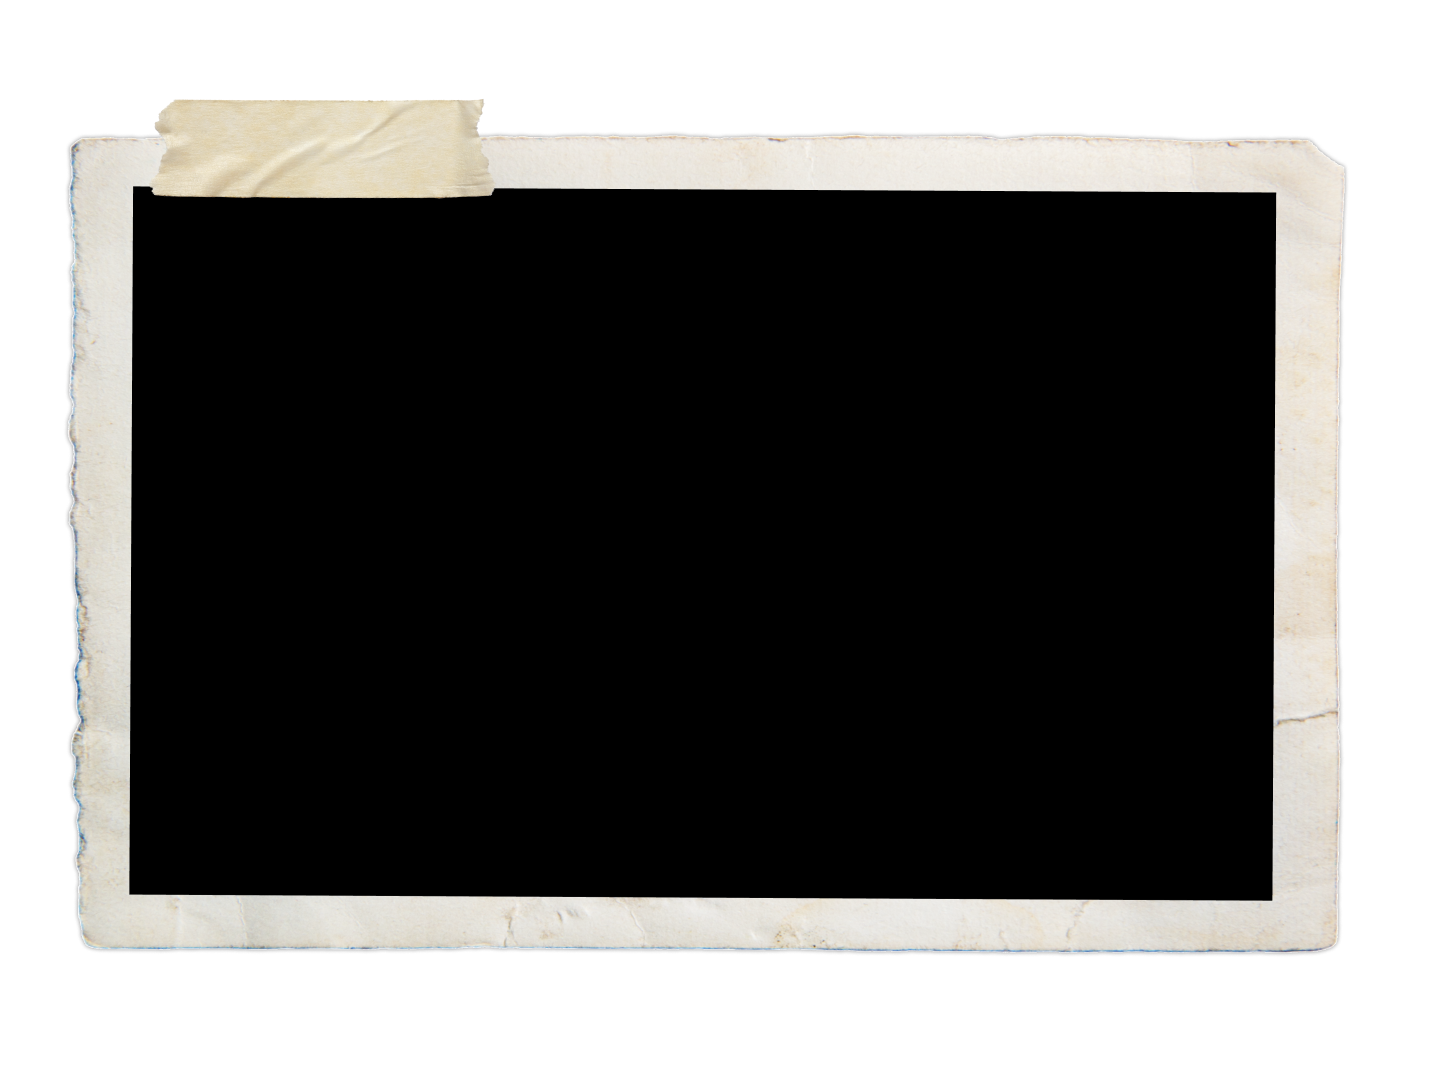
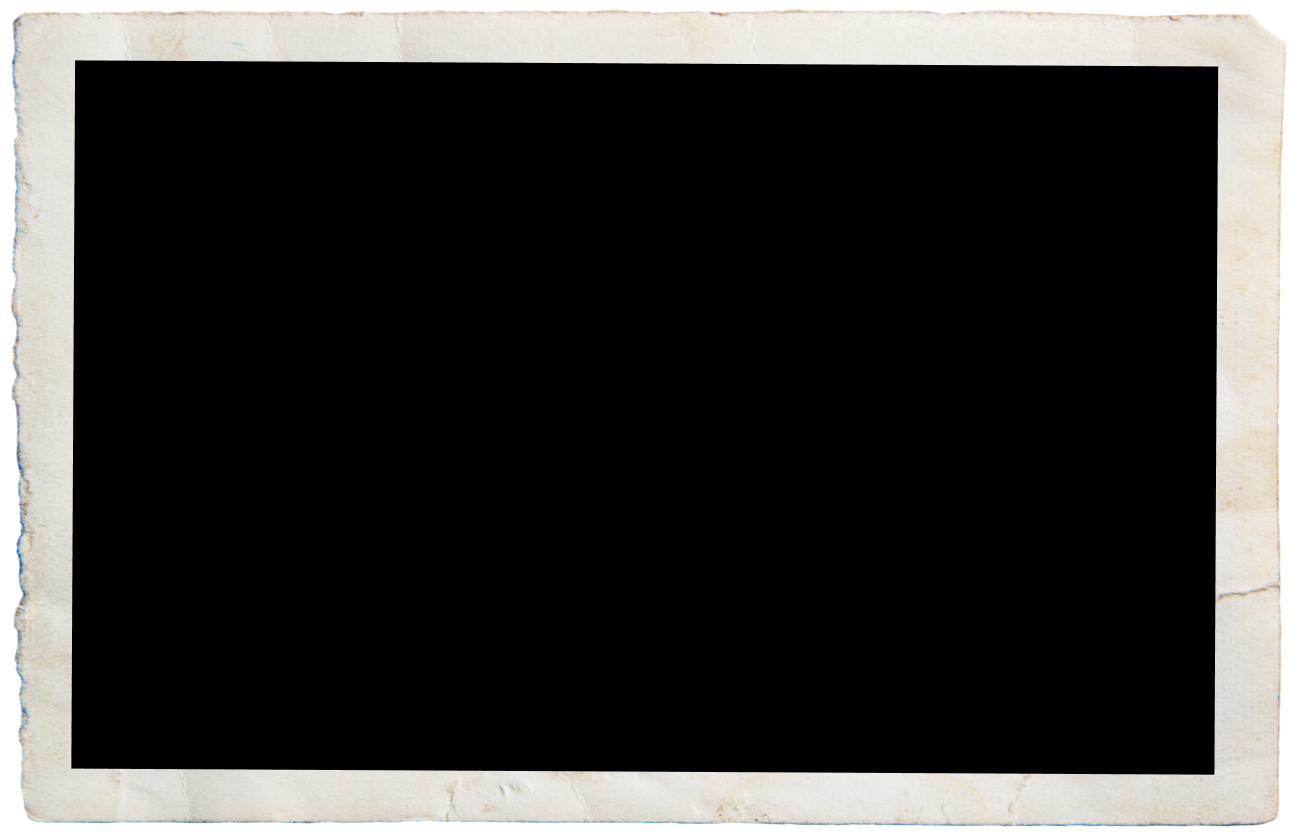
feat: :construction:

diff --git a/src/styles/style.scss b/src/styles/style.scss
@@ -337,16 +337,114 @@
         }
     }
 
+    &__image {
+        max-width: 65%;
+        margin: auto;
+    }	
 
     .hpp-patients__section {
         background-image: url(/assets/images/hpp-profile/frame-polaroid.png);
-        background-size: 500px;
         background-repeat: no-repeat;
-        background-position: center;
+        background-size: 100% 100%;
+        position: relative;
+
+        margin-left: auto;
+        margin-right: auto;
+
+        padding: 2.5rem 4.7rem;
+        margin-bottom: 3rem;
+
+        &::before {
+            content: '';
+            background-image: url(/assets/images/hpp-profile/tape.png);
+            background-repeat: no-repeat;
+            background-size: contain;
+            position: absolute;
+            top: -1.5rem;
+            left: 50%;
+            transform: translateX(-50%);
+            width: 12rem;
+            height: 5rem;
+
+            @media screen and (min-width: 769px) {
+                top: -1.5rem;
+                left: 7%;
+                transform: translateX(0);
+                width: 20rem;
+                height: 10rem;
+            }
+        }
+
+        @media screen and (max-width: 768px) {
+            background-image: url(/assets/images/hpp-profile/frame-polaroid-mb.png);
+
+            padding: 3rem 1.7rem;
+        }
 
         &--bg-white {
+            background: url(/assets/images/hpp-profile/hpp-patients-chart-bg.png);
+            background-repeat: no-repeat;
+            background-size: 100% 100%;
             background-color: $color-white;
+            
+            padding: 1rem 0;
         }
-    }	
+        
+        &__title {
+            margin: 2rem;
+        }
+
+        &__chart {
+            display: flex;
+            justify-content: center;
+            flex-direction: column;
+            align-items: center;
+
+            &--mb {
+                @media screen and (min-width: 769px) {
+                    display: flex;
+                    flex-direction: row;
+                    justify-content: space-between;
+                    width: 100%;
+                }
+            }
+        }
+
+        &__image {
+            max-width: 100%;
+            margin: auto;
+            display: none;
+            @media screen and (min-width: 769px) {
+                display: block;
+            }
+
+            &--mb {
+                max-width: 15rem;
+                margin: auto;
+
+                display: block;
+                @media screen and (min-width: 769px) {
+                    display: none;
+                }
+            }
+        }
+
+        &__text-chart {
+            text-align: center;
+            max-width: 11rem;
+            margin: auto;
+
+            @media screen and (min-width: 769px) {
+                max-width: 13rem;
+            }
+        }
+
+        &__content {
+            margin: 2rem;
+            @media screen and (max-width: 768px) {
+                display: none;
+            }
+        }
+    }
 }
 /* HPP Profile page end */
